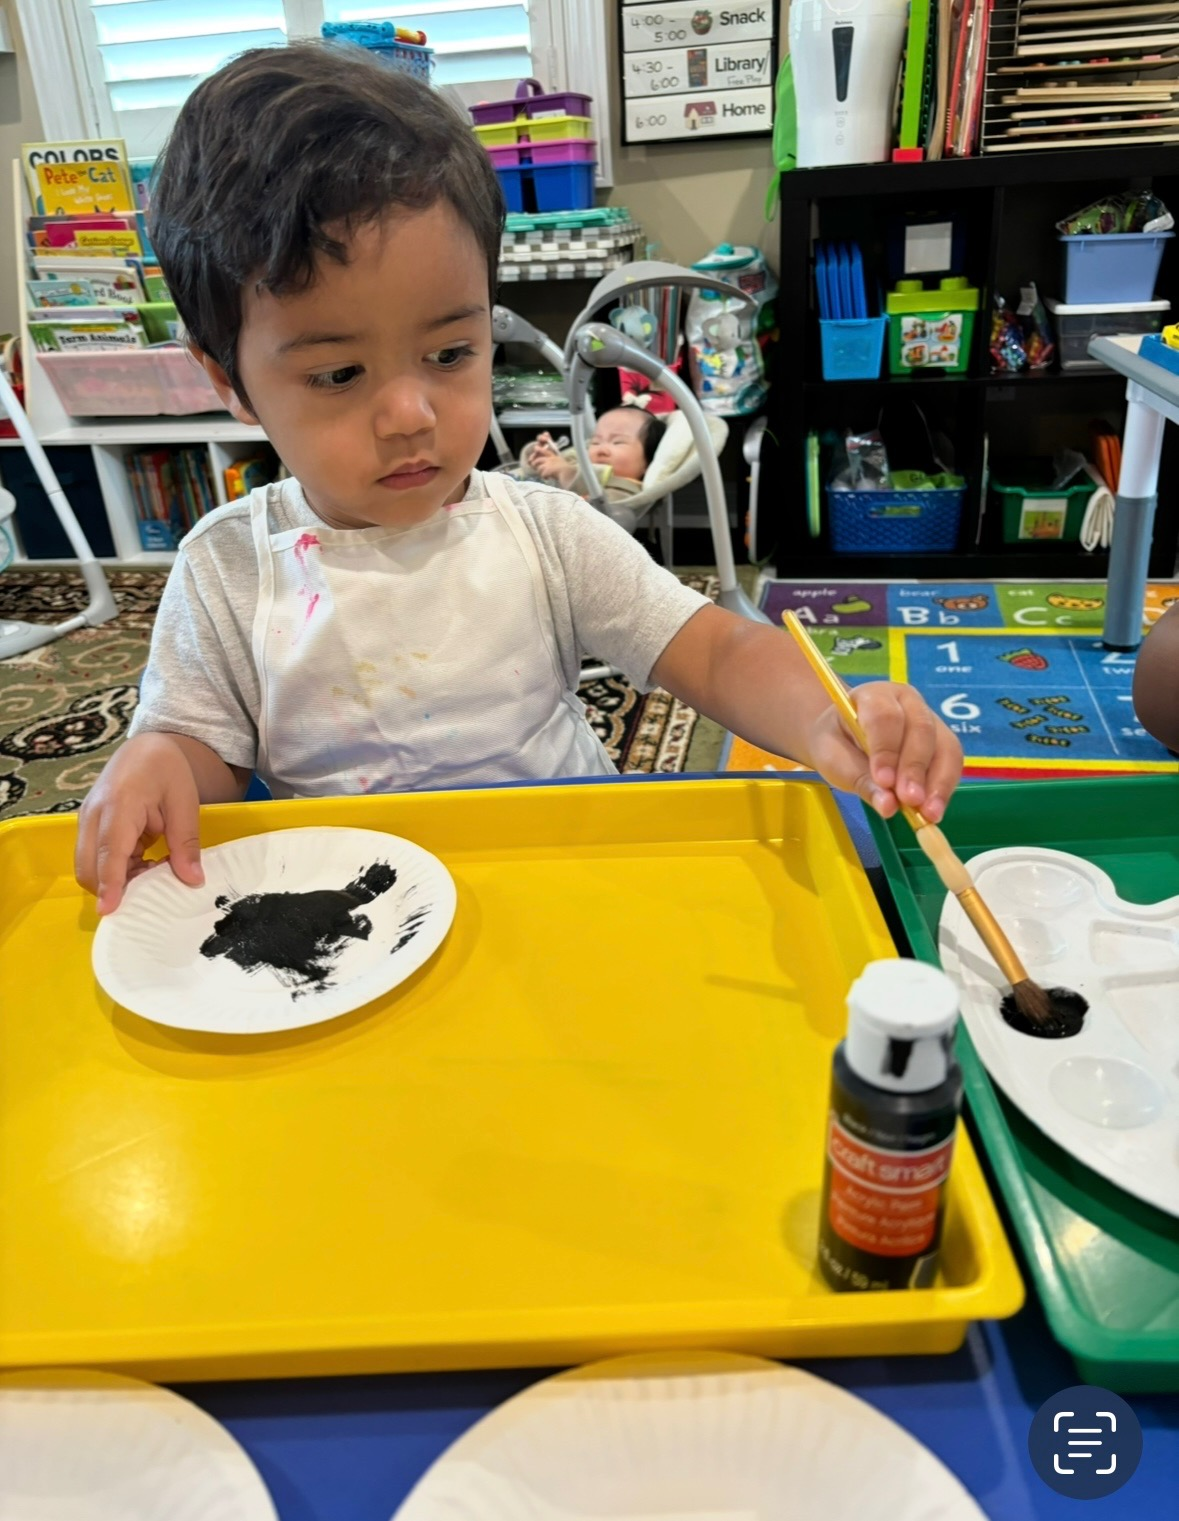
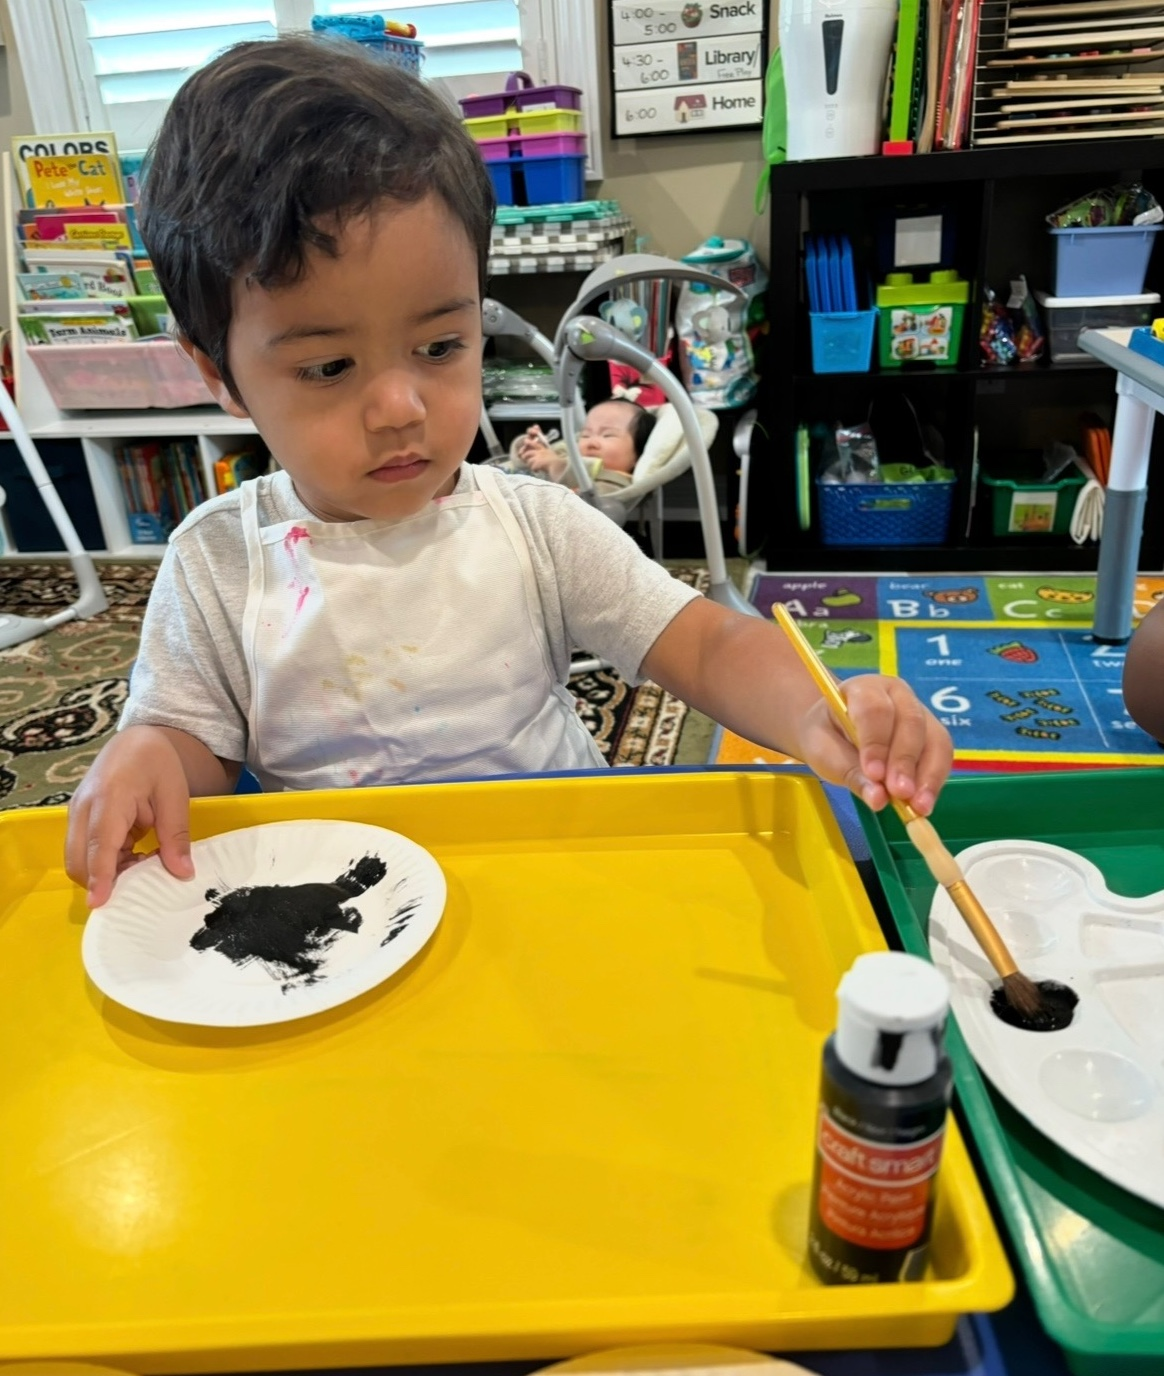
gallery crop update

diff --git a/src/app/gallery/page.tsx b/src/app/gallery/page.tsx
@@ -204,7 +204,7 @@ export default function Gallery() {
             {cardDeck.map((card, index) => (
               <motion.div
                 drag
-                whileDrag={{ scale: 1.5, rotate: (Math.random() * 20) - 10, outline: 'none' }}
+                whileDrag={{ scale: 1.3, rotate: (Math.random() * 20) - 10, outline: 'none' }}
                 key={index}
                 initial={{ boxShadow: '0px 0px 0px rgba(0, 0, 0, 0.5)', rotate: (Math.round(Math.random()) * 20) - 10 }}
                 onDragEnd={() => { endOfLine() }}
